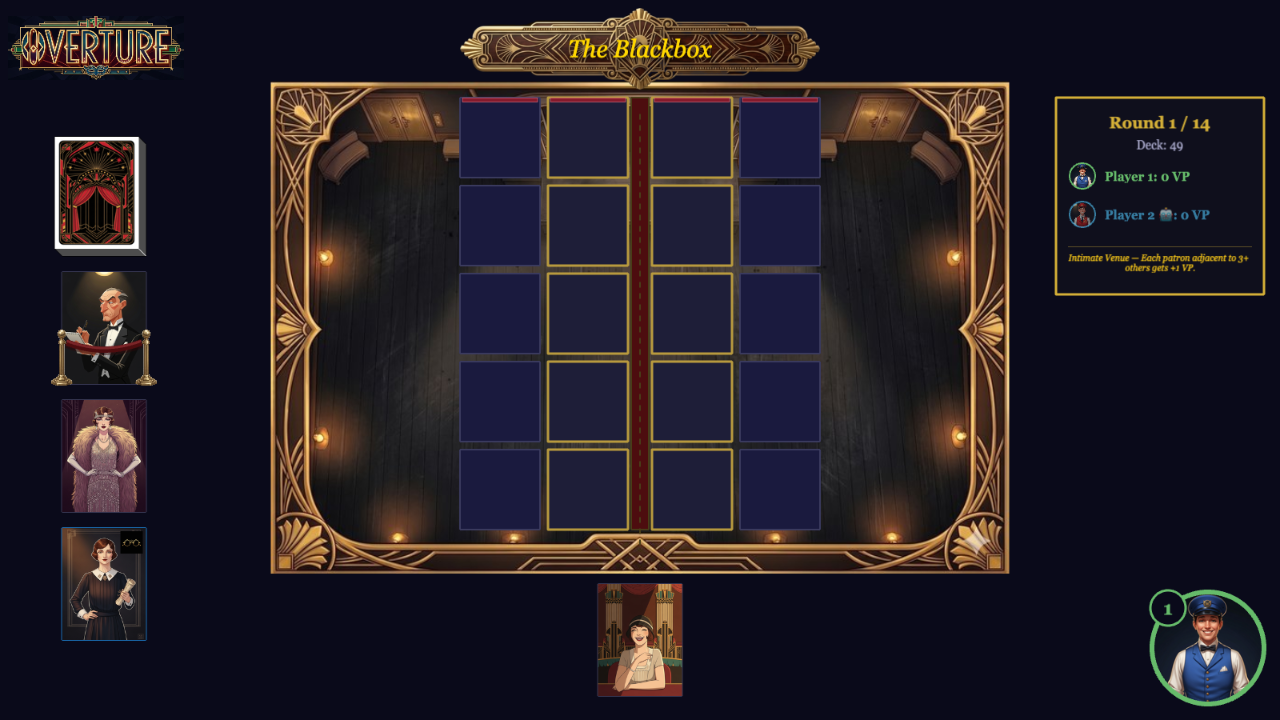
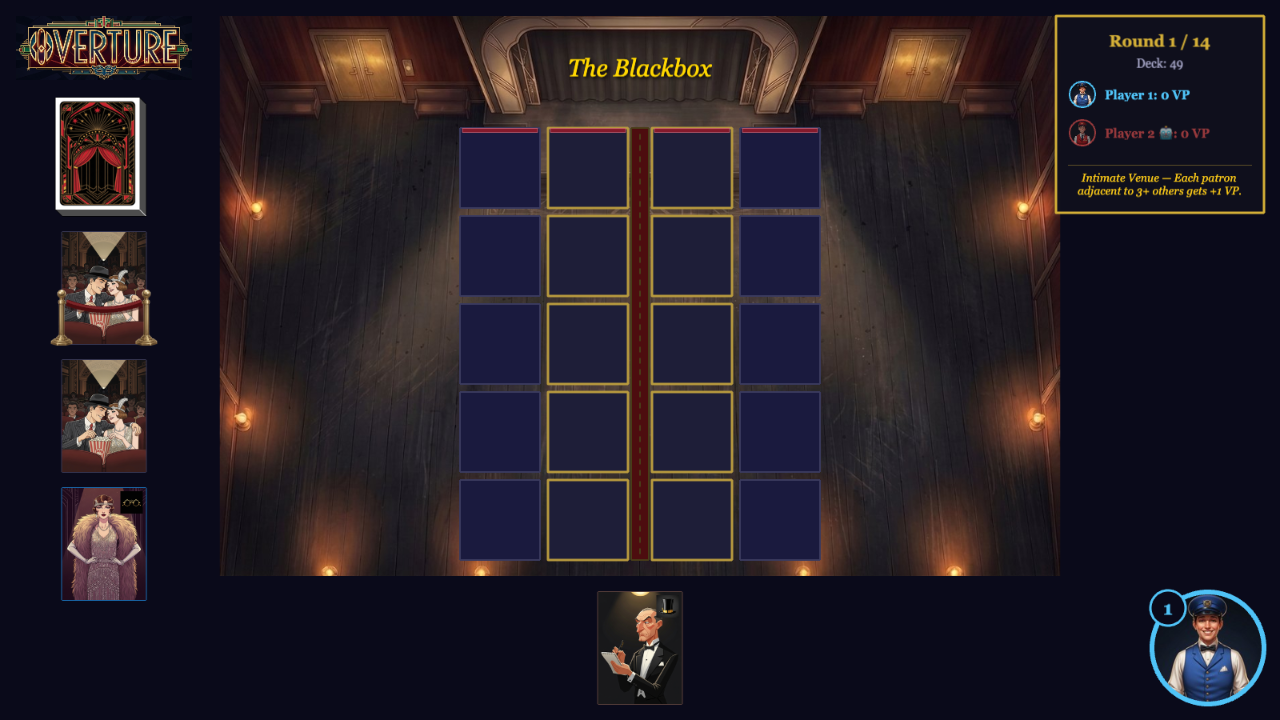
fix: update player color mapping for consistency and improve overlay UI layering
- Change playerColorMap default and propagation to [2, 0, 1, 3] for consistent player color assignment
- Update PlayerColors and PlayerColorsHex order to match new mapping
- Refactor TheaterOverlay to render theater grid below UI controls and update header text on view change
- Hide scoring tooltip before discarding card to prevent lingering tooltips
- Remove unnecessary scaling in stage label positioning

diff --git a/src/objects/TheaterOverlay.js b/src/objects/TheaterOverlay.js
@@ -37,9 +37,15 @@ export class TheaterOverlay extends Phaser.GameObjects.Container {
             .setInteractive(); // Stop click propagation to elements beneath
         this.add(bg);
 
+        /** @type {TheaterGrid | null} */
+        this.theaterGrid = null;
+
+        // Render the theater grid first so UI elements layer on top
+        this.renderView();
+
         const btnY = height - s(60);
 
-        // Header text for player's theater (moved above buttons)
+        // Header text for player's theater
         this.headerText = scene.add
             .text(width / 2, btnY - s(80), "", {
                 fontSize: px(34),
@@ -60,6 +66,7 @@ export class TheaterOverlay extends Phaser.GameObjects.Container {
             "Close",
             { fontSize: 18, width: 140 },
         );
+
         closeHit.on("pointerdown", () => {
             this.onClose?.();
             this.destroy(); // Safely removes graphics and container
@@ -75,6 +82,7 @@ export class TheaterOverlay extends Phaser.GameObjects.Container {
                 "< Previous",
                 { fontSize: 20, width: 180 },
             );
+
             prevHit.on("pointerdown", () => this.cycle(-1));
             this.add(prevBtn);
 
@@ -85,14 +93,13 @@ export class TheaterOverlay extends Phaser.GameObjects.Container {
                 "Next >",
                 { fontSize: 20, width: 180 },
             );
+
             nextHit.on("pointerdown", () => this.cycle(1));
             this.add(nextBtn);
         }
 
-        /** @type {TheaterGrid | null} */
-        this.theaterGrid = null;
-
-        this.renderView();
+        // Update header text for the initial view
+        this.updateHeaderText();
 
         scene.add.existing(this);
     }
@@ -104,16 +111,22 @@ export class TheaterOverlay extends Phaser.GameObjects.Container {
     cycle(direction) {
         this.currentPlayerView = (this.currentPlayerView + direction + this.playerCount) % this.playerCount;
         this.renderView();
+        this.updateHeaderText();
     }
 
-    renderView() {
+    /**
+     * Update the header text to reflect the current player view.
+     */
+    updateHeaderText() {
+        if (!this.headerText) return;
         const isAI = /** @type {any} */ (this.scene).aiConfig?.[this.currentPlayerView];
         const nameLabel = isAI
             ? `${PlayerNames[this.currentPlayerView].replace("Player ", "P")} 🤖`
             : PlayerNames[this.currentPlayerView];
-
         this.headerText.setText(`${nameLabel}'s Theater`);
+    }
 
+    renderView() {
         if (this.theaterGrid) {
             this.theaterGrid.destroy();
         }
@@ -130,8 +143,7 @@ export class TheaterOverlay extends Phaser.GameObjects.Container {
         this.theaterGrid.setFrontSeatGuidance(false);
         this.theaterGrid.setAisleSeatGuidance(false);
 
-        this.add(this.theaterGrid);
-        // Ensure the theater is drawn beneath the overlay UI controls (buttons, header)
-        this.theaterGrid.setDepth(-1);
+        // Insert right after the dark background (index 0) so UI controls stay on top
+        this.addAt(this.theaterGrid, 1);
     }
 }

diff --git a/src/scenes/TitleScene.js b/src/scenes/TitleScene.js
@@ -28,7 +28,7 @@ export class TitleScene extends Phaser.Scene {
                     { length: 4 },
                     (_, i) => i === 0 ? null : AIDifficulty.MEDIUM,
                 ),
-                playerColorMap: [0, 1, 2, 3],
+                playerColorMap: [2, 0, 1, 3],
                 debugAnalytics: true,
             });
         });
@@ -46,7 +46,7 @@ export class TitleScene extends Phaser.Scene {
                     { length: 4 },
                     (_, i) => i === 0 ? null : AIDifficulty.MEDIUM,
                 ),
-                playerColorMap: [0, 1, 2, 3],
+                playerColorMap: [2, 0, 1, 3],
                 debugAnalytics: true,
             });
         });
@@ -124,7 +124,7 @@ export class TitleScene extends Phaser.Scene {
                         { length: 4 },
                         (_, p) => p === 0 ? null : (p < count ? AIDifficulty.MEDIUM : null),
                     ),
-                    playerColorMap: [0, 1, 2, 3],
+                    playerColorMap: [2, 0, 1, 3],
                     debugAnalytics: false,
                 });
             });

diff --git a/src/scenes/PlayerSetupScene.js b/src/scenes/PlayerSetupScene.js
@@ -31,7 +31,7 @@ export class PlayerSetupScene extends Phaser.Scene {
          * Default: [0, 1, 2, 3] (blue, red, green, orange).
          * @type {number[]}
          */
-        this.playerColorMap = [0, 1, 2, 3];
+        this.playerColorMap = [2, 0, 1, 3];
 
         /** @type {boolean} */
         this.debugAnalytics = false;
@@ -45,7 +45,7 @@ export class PlayerSetupScene extends Phaser.Scene {
         this.selectedPlayerCount = count;
         this.aiConfig = data?.aiConfig ||
             Array.from({ length: 4 }, (_, i) => i === 0 ? null : (i < count ? AIDifficulty.MEDIUM : null));
-        this.playerColorMap = data?.playerColorMap || [0, 1, 2, 3];
+        this.playerColorMap = data?.playerColorMap || [2, 0, 1, 3];
         this.debugAnalytics = !!data?.debugAnalytics;
     }
 

diff --git a/src/types.js b/src/types.js
@@ -358,11 +358,11 @@ export const PatronDeckSpec = Object.freeze(
  * Player colors and names for up to 4 players.
  * @type {string[]}
  */
-export const PlayerColors = ["#66bb6a", "#4fc3f7", "#ef5350", "#ffa726"];
+export const PlayerColors = ["#4fc3f7", "#ef5350", "#66bb6a", "#ffa726"];
 Object.freeze(PlayerColors);
 
-/** @type {number[]} */
-export const PlayerColorsHex = [0x66bb6a, 0x4fc3f7, 0xef5350, 0xffa726];
+/** Same order as PlayerColors but as hex numbers for Phaser tint/fill. */
+export const PlayerColorsHex = [0x4fc3f7, 0xef5350, 0x66bb6a, 0xffa726];
 Object.freeze(PlayerColorsHex);
 
 /** @type {string[]} */

diff --git a/src/objects/TheaterGrid.js b/src/objects/TheaterGrid.js
@@ -345,7 +345,7 @@ export class TheaterGrid extends Phaser.GameObjects.Container {
         const floorCenterY = gridStartY + totalGridH / 2 + gridMarginBottom / 2 - gridMarginTop / 2;
 
         const stageLabel = scene.add
-            .text(s(scene.scale.width / 2), stageTop + gridMarginTop / 2, this.layout.name, {
+            .text(scene.scale.width / 2, stageTop + gridMarginTop / 2, this.layout.name, {
                 fontSize: px(30),
                 color: "#ffd700",
                 fontFamily: "Georgia, serif",

diff --git a/src/scenes/EndGameScene.js b/src/scenes/EndGameScene.js
@@ -21,7 +21,7 @@ export class EndGameScene extends Phaser.Scene {
     /** @type {(import('../types.js').CardData | null)[][][]} Per-player grids (set in init, before create). */
     placedPatrons = /** @type {*} */ ([]);
     /** @type {number[]} Maps player slot → color index. */
-    playerColorMap = [0, 1, 2, 3];
+    playerColorMap = [2, 0, 1, 3];
     /** @type {(string | null)[]} AI config per player. */
     aiConfig = [null, null, null, null];
 

diff --git a/src/scenes/GameScene.js b/src/scenes/GameScene.js
@@ -1401,6 +1401,9 @@ export class GameScene extends Phaser.Scene {
      * @param {Card} card
      */
     discardCard(card) {
+        // Hide tooltip before animating
+        this.hideScoringTooltip();
+
         // Remove from data
         const handDataIndex = this.playerHands[this.currentPlayer].indexOf(
             card.cardData,
